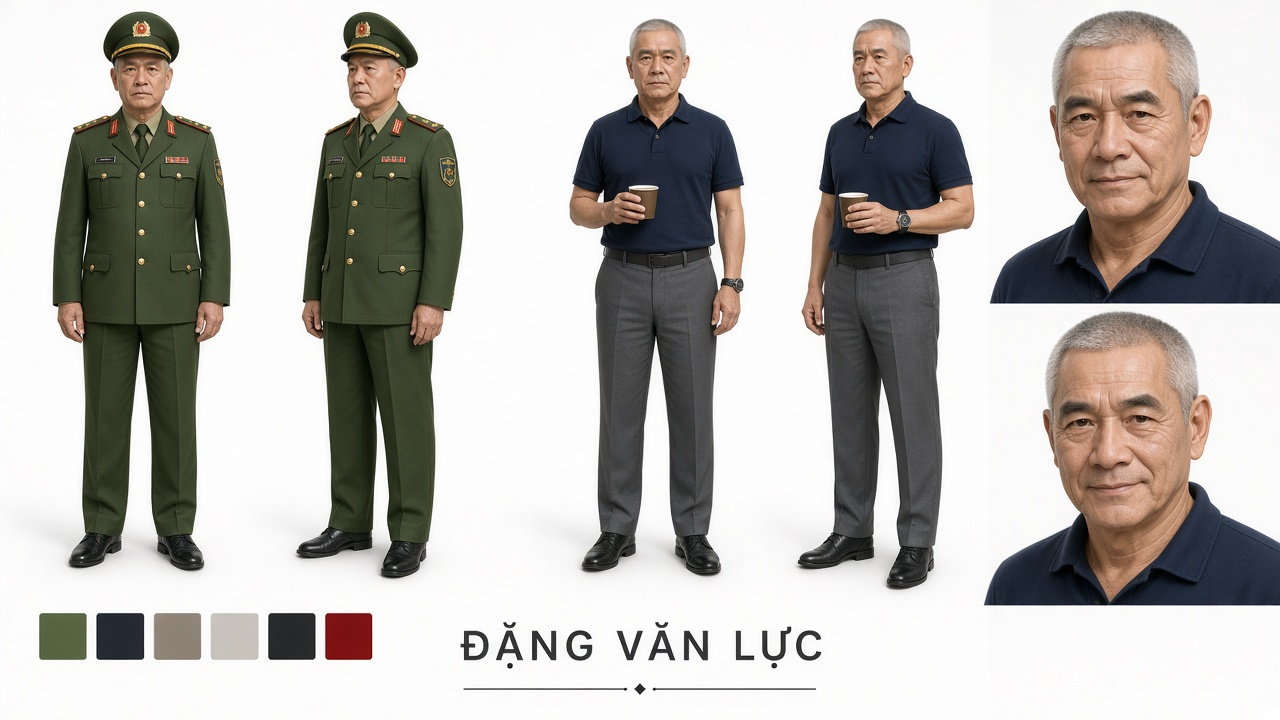
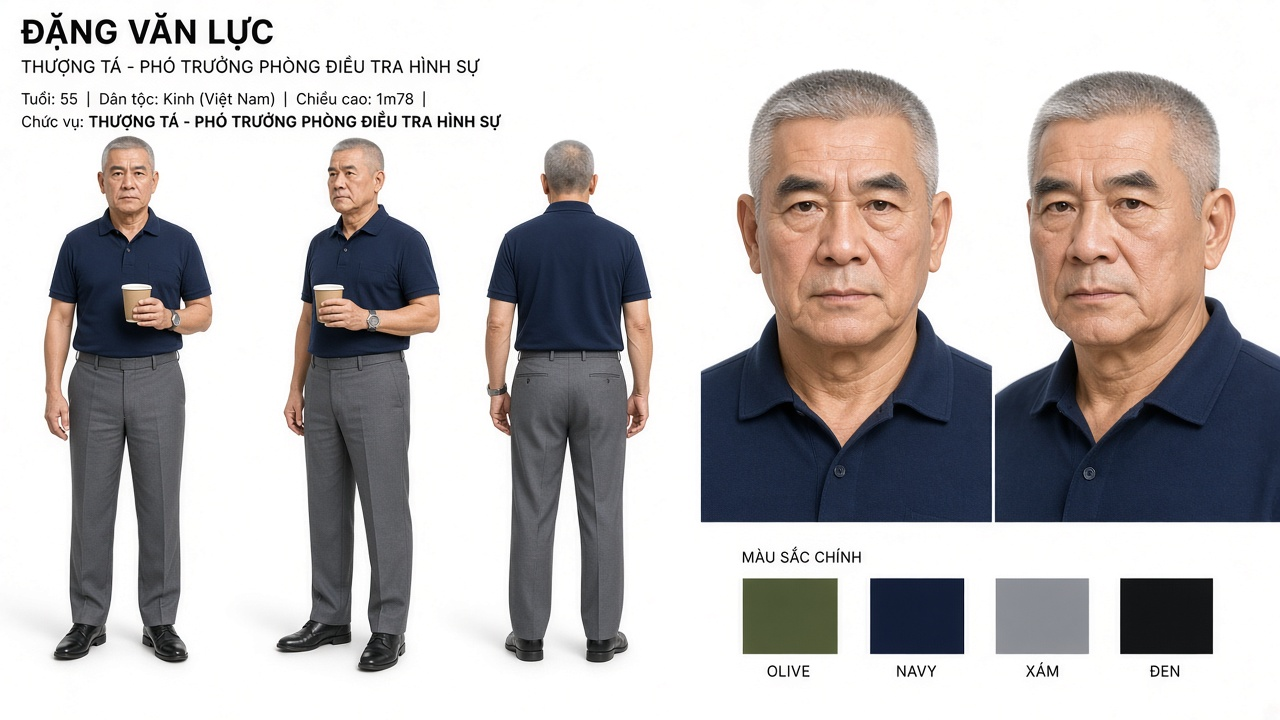
Làm lại character sheet theo gương mặt Việt Kinh
Đổi tạo hình khỏi vẻ lakorn Thái: da sáng hồng, mặt oval, mũi thẳng, nam cạo sạch. Cập nhật nguyên tắc hoá trang trong character-sheet.md.

diff --git a/character-sheet/character-sheet.md b/character-sheet/character-sheet.md
@@ -2,8 +2,9 @@
 
 Thiết kế tạo hình nhân vật. Bối cảnh Sài Gòn 2026, phong cách hiện đại, tân tiến. Nguyên tắc chung cho toàn bộ dàn diễn viên:
 
+- **Dân tộc / khuôn mặt:** toàn bộ là người Việt Kinh, Sài Gòn 2026. Mặt oval thon, xương gò má cao, mũi thẳng thanh, mắt một mí hoặc hai mí nhẹ kiểu Á Đông Việt, lông mày tự nhiên không dày kịch. Nam cạo sạch, không ria mép dày, không râu quai nón đậm. **Không** dùng gương mặt Thái / lakorn (da nâu sẫm, lông mày đậm, sống mũi cao kiểu lai).
 - **Ngoại hình:** đẹp, cao, vóc dáng cân đối. Nam từ 1m76 trở lên, nữ từ 1m68 trở lên.
-- **Da:** hồng hào, khoẻ mạnh, "glow" tự nhiên. Trang điểm nhẹ theo kiểu *no-makeup makeup* – không thấy lớp phấn, chỉ thấy da đẹp.
+- **Da:** sáng hồng kiểu da Việt Nam thành thị – ivory ấm đến be hồng, má ửng, "glow" tự nhiên. Không da nâu sẫm, không rám nắng Thái. Trang điểm nhẹ *no-makeup makeup*.
 - **Trang phục:** hiện đại, tối giản, vừa vặn (slim/tailored), chất liệu tốt (linen, cotton, silk, wool). Mỗi nhân vật có một bảng màu riêng để dễ nhận diện trong khung hình.
 - **Nguyên tắc "đẹp nhưng thật":** không nhân vật nào trông như người mẫu quảng cáo; vẻ đẹp phải đi với nghề nghiệp và tính cách.
 
@@ -21,7 +22,7 @@ Thiết kế tạo hình nhân vật. Bối cảnh Sài Gòn 2026, phong cách h
 | **Vóc dáng** | Gầy rắn, vai rộng, kiểu người tập võ chứ không tập gym |
 | **Gương mặt** | Góc hàm sắc, mắt sâu luôn như đang "đọc" người đối diện, vết sẹo mờ nhỏ ở cằm |
 | **Tóc** | Đen, ngắn, vuốt ngược tự nhiên, hơi rối về cuối ngày |
-| **Da / Trang điểm** | Da nâu sáng hồng hào, không trang điểm – chỉ dưỡng để da khoẻ. Râu quai nón cạo sát, để lại bóng mờ |
+| **Da / Trang điểm** | Da sáng hồng kiểu Kinh thành thị, không trang điểm – chỉ dưỡng để da khoẻ. Cạo sạch, không ria |
 | **Trang phục chủ đạo** | Sơ mi linen màu ngà xắn tay đến khuỷu, quần âu xám than ống đứng, thắt lưng da nâu, boots da nâu, đồng hồ thép tối giản |
 | **Biến thể** | Đêm gala: vest đen mượn, hơi rộng vai. Hành động: cùng bộ nhưng rách, ướt, dính bột chữa cháy |
 | **Bảng màu** | Ngà – Xám than – Nâu da – Đen |
@@ -154,7 +155,8 @@ Thiết kế tạo hình nhân vật. Bối cảnh Sài Gòn 2026, phong cách h
 
 ## Ghi chú cho bộ phận hoá trang
 
-- Toàn bộ nhân vật dùng tông da **hồng hào tự nhiên**: nền da mỏng, highlight nhẹ ở gò má và sống mũi, không contour đậm.
-- Nam giới: kẻ mày nhẹ, son dưỡng có màu, tuyệt đối không thấy "lớp" trang điểm trên màn hình.
+- Tham chiếu tạo hình: diễn viên điện ảnh Việt Nam đương đại (Kinh, da sáng hồng), **không** tham chiếu phim Thái / lakorn.
+- Toàn bộ nhân vật dùng tông da **sáng hồng tự nhiên**: nền da mỏng, highlight nhẹ ở gò má và sống mũi, không contour đậm, không rám nắng giả.
+- Nam giới: cạo sạch, kẻ mày nhẹ, son dưỡng có màu, tuyệt đối không thấy "lớp" trang điểm trên màn hình. Không ria mép dày.
 - Nữ giới: *no-makeup makeup* – cushion mỏng, má hồng đào hoặc cam đất, son tiệp màu môi, mascara chuốt nhẹ.
 - Độ "hoàn hảo" của da tỉ lệ nghịch với độ trung thực của nhân vật: **Bảo và Nam** da hoàn hảo nhất (có tiền, có che giấu); **Khang, Chị Sáu, Lực** da khoẻ nhưng có dấu vết thời gian; **Tín và Mai** trẻ, tươi, hồng tự nhiên.
